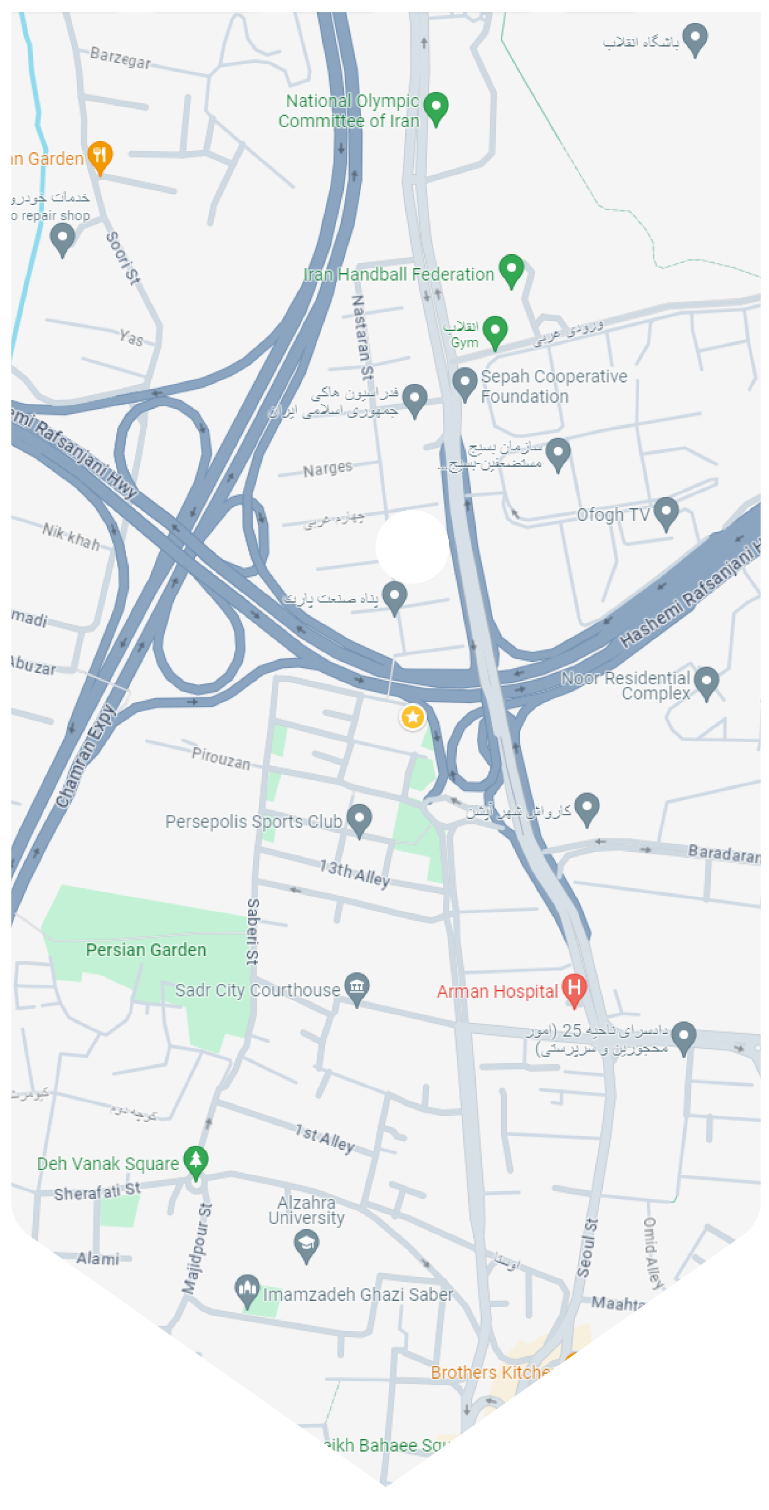
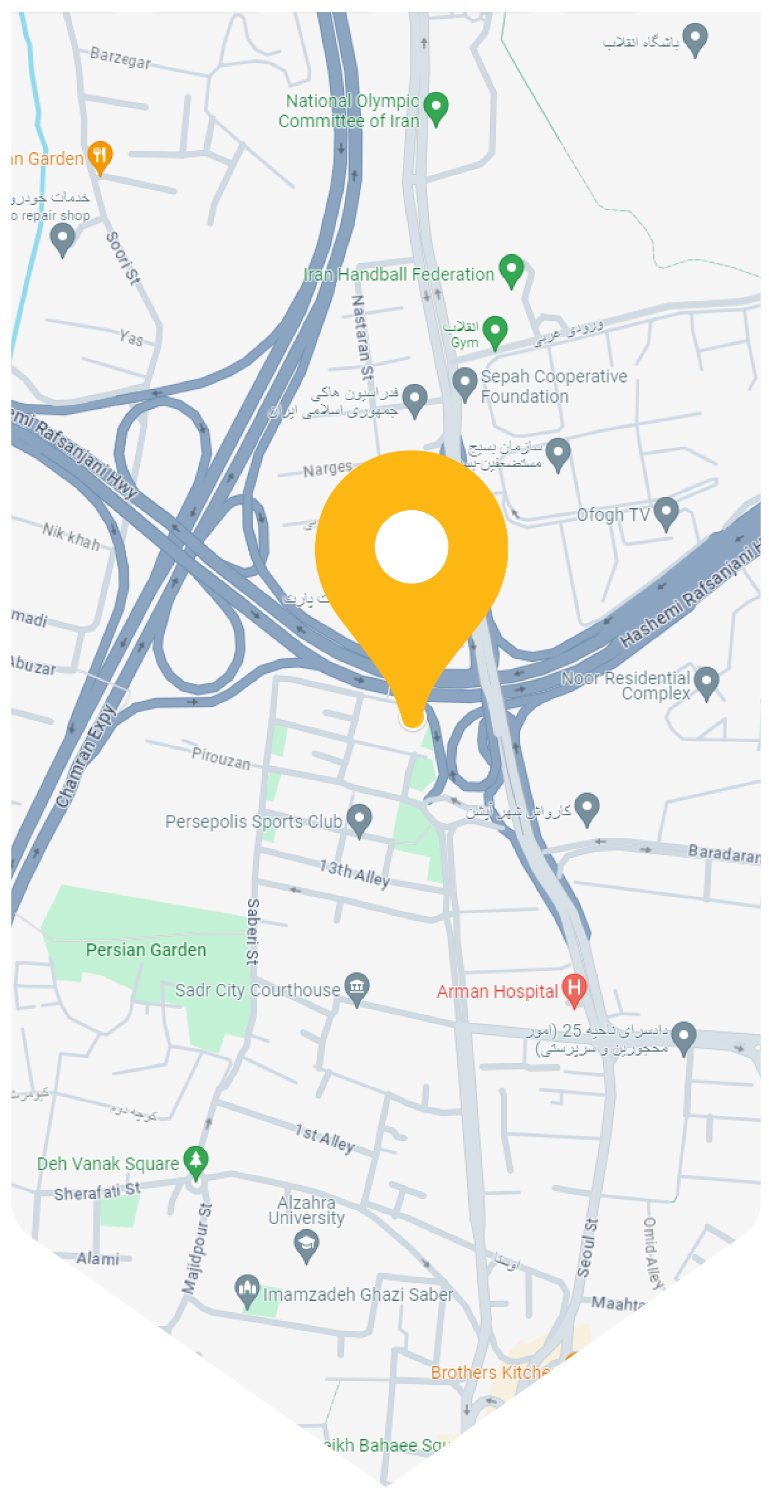
update: contact

Changed region(s): [[0.4057, 0.2801, 0.6866, 0.498]]

diff --git a/pages/contact/index.js b/pages/contact/index.js
@@ -2,12 +2,11 @@ import { useState, useContext, Fragment, useEffect } from "react";
 import { StateContext } from "@/context/stateContext";
 import classes from "./contact.module.scss";
 import Image from "next/legacy/image";
-import shahyad from "@/assets/shahyad.png";
+import map from "@/assets/map.png";
 import PhoneEnabledIcon from "@mui/icons-material/PhoneEnabled";
 import EmailIcon from "@mui/icons-material/Email";
 import ReceiptLongIcon from "@mui/icons-material/ReceiptLong";
 import LocationOnIcon from "@mui/icons-material/LocationOn";
-import NavigationIcon from "@mui/icons-material/Navigation";
 
 export default function Contact() {
   const { language, setLanguage } = useContext(StateContext);
@@ -16,15 +15,15 @@ export default function Contact() {
     "https://www.google.com/maps/place/Eshareh+Advertising+Agency/@35.7743132,51.3941519,17z/data=!4m6!3m5!1s0x3f8e0651f88334cf:0xbf2b6076f1e9fc52!8m2!3d35.7746884!4d51.3941131!16s%2Fg%2F1tg6j0hh?entry=ttu";
 
   return (
-    <div className={classes.container}>
-      <div className={classes.cover}>
+    <div className={language ? classes.container : classes.containerReverse}>
+      <div className={classes.image} onClick={() => window.open(locationLink)}>
         <Image
-          src={shahyad}
-          blurDataURL={shahyad}
+          src={map}
+          blurDataURL={map}
           placeholder="blur"
-          alt="cover"
-          layout="fill"
-          objectFit="cover"
+          alt="map"
+          layout="responsive"
+          objectFit="contain"
           as="image"
           priority
         />
@@ -35,55 +34,60 @@ export default function Contact() {
             language ? classes.information : classes.informationReverse
           }
         >
-          <h1>{language ? "اشاره" : "eshareh"}</h1>
-          <div
-            className={language ? classes.row : classes.rowReverse}
-            onClick={() => window.open(locationLink)}
-          >
-            <LocationOnIcon className="icon" />
+          <div className={language ? classes.tag : classes.tagReverse}>
             {language ? (
-              <p className={classes.click}>
-                تهران، انتهای شیخ بهایی شمالی، نبش بزرگراه نیایش، کوچه ۲۱، پلاک
-                ۲، ۱۹۹۵۷۷۵۳۵۳
-              </p>
+              <p className={classes.click}>دفتر ما را پیدا کنید</p>
             ) : (
-              <p className={classes.click}>
-                No. 2, 21st Alley, North Sheikh Bahaei St. Tehran, 1995775353,
-                Iran
-              </p>
+              <p className={classes.click}>Find our office</p>
             )}
           </div>
-          <div
-            className={language ? classes.row : classes.rowReverse}
-            onClick={() => window.open(locationLink)}
+          <h1
+            className={classes.title}
+            style={{
+              fontFamily: language ? "FarsiMedium" : "EnglishMedium",
+            }}
           >
-            <NavigationIcon className="icon" />
-            <p className={classes.click}>
-              {language ? "موقعیت روی نقشه" : "Get directions"}
-            </p>
-          </div>
-          <div
-            className={language ? classes.row : classes.rowReverse}
-            onClick={() => window.open("tel:+982188044244", "_self")}
-          >
-            <PhoneEnabledIcon className="icon" />
-            <p className={classes.click}>
-              {language ? "+۹۸ ۲۱ ۸۸۰ ۴۴ ۲۴۴" : "+98 21 880 44 244"}
-            </p>
-          </div>
-          <div className={language ? classes.row : classes.rowReverse}>
-            <ReceiptLongIcon />
-            <p>{language ? "+۹۸ ۲۱ ۸۸۰ ۶۰ ۶۶۶" : "+98 21 880 60 666"}</p>
-          </div>
-          <div className={language ? classes.row : classes.rowReverse}>
-            <EmailIcon />
-            <p
-              style={{
-                fontFamily: language ? "English" : "English",
-              }}
+            {language ? "اشاره" : "eshareh"}
+          </h1>
+          <div className={classes.details}>
+            <div
+              className={language ? classes.row : classes.rowReverse}
+              onClick={() => window.open(locationLink)}
             >
-              info@eshareh.com
-            </p>
+              {language ? (
+                <p className={classes.click}>
+                  تهران، انتهای شیخ بهایی شمالی، نبش بزرگراه نیایش، کوچه ۲۱،
+                  پلاک ۲، ۱۹۹۵۷۷۵۳۵۳
+                </p>
+              ) : (
+                <p className={classes.click}>
+                  No. 2, 21st Alley, North Sheikh Bahaei St. Tehran, 1995775353,
+                  Iran
+                </p>
+              )}
+            </div>
+            <div
+              className={language ? classes.row : classes.rowReverse}
+              onClick={() => window.open("tel:+982188044244", "_self")}
+            >
+              <p className={classes.click}>{language ? "تماس" : "Tel"}</p>
+              <p className={classes.click}>
+                {language ? "+۹۸ ۲۱ ۸۸۰ ۴۴ ۲۴۴" : "+98 21 880 44 244"}
+              </p>
+            </div>
+            <div className={language ? classes.row : classes.rowReverse}>
+              <p>{language ? "فکس" : "Fax"}</p>
+              <p>{language ? "+۹۸ ۲۱ ۸۸۰ ۶۰ ۶۶۶" : "+98 21 880 60 666"}</p>
+            </div>
+            <div className={language ? classes.row : classes.rowReverse}>
+              <p
+                style={{
+                  fontFamily: language ? "English" : "English",
+                }}
+              >
+                info@eshareh.com
+              </p>
+            </div>
           </div>
         </div>
       </div>

diff --git a/pages/contact/contact.module.scss b/pages/contact/contact.module.scss
@@ -1,60 +1,123 @@
 @use "styles/_config.scss" as config;
 @use "styles/_mixins.scss" as mixins;
 
-.container {
-  margin: auto;
+.container,
+.containerReverse {
+  display: flex;
+  flex-direction: row;
   width: config.$content-width;
-  margin-top: 150px;
+  max-width: config.$max-widthHeigh;
+  margin: auto;
 
   @include mixins.mobile {
-    width: calc(100% - 24px);
+    flex-direction: column-reverse !important;
+    width: 100%;
+    margin-top: 150px;
+  }
+}
+
+.containerReverse {
+  flex-direction: row-reverse;
+}
+
+.image {
+  width: 300px;
+  cursor: pointer;
+
+  @include mixins.mobile {
+    margin: auto;
+    margin-top: 50px;
+    width: 50%;
   }
 }
 
 .informationContainer {
   display: flex;
-  flex-direction: row-reverse;
-  position: absolute;
-  top: 50%;
-  left: 50%;
-  transform: translate(-50%, -50%);
-  width: config.$content-width;
-  max-width: config.$max-widthHeigh;
+  margin: auto;
+  width: 100%;
 
   @include mixins.mobile {
     width: calc(100% - 24px);
+  }
+
+  .title {
+    position: relative;
+    z-index: 2;
+    font-size: 220px !important;
+
+    @include mixins.mobile {
+      font-size: 45px !important;
+    }
+    @include mixins.tablet {
+      font-size: 100px !important;
+    }
   }
 }
 
 .information,
 .informationReverse {
   position: relative;
-  right: 0px;
+  width: 100%;
   text-align: right;
-  width: 40%;
 
   @include mixins.mobile {
     width: 100%;
+  }
+
+  .details {
+    position: relative;
+    bottom: 80px;
+    @include mixins.mobile {
+      bottom: 0px;
+    }
+    @include mixins.tablet {
+      bottom: 0px;
+    }
+  }
+
+  .tag,
+  .tagReverse {
+    display: flex;
+    align-items: center;
+    color: config.$grey;
+    position: relative;
+    top: 100px;
+
+    @include mixins.mobile {
+      top: 0px;
+    }
+    @include mixins.tablet {
+      top: 0px;
+    }
+  }
+
+  .tag {
+    flex-direction: row-reverse;
+    top: 50px;
+
+    @include mixins.mobile {
+      top: 0px;
+    }
+    @include mixins.tablet {
+      top: 0px;
+    }
   }
 
   .row,
   .rowReverse {
     display: flex;
     align-items: center;
-    margin: 16px 0px;
+    margin: 8px 0px;
+    color: config.$grey;
+    position: relative;
+    z-index: 3;
 
     .click {
       cursor: pointer;
     }
 
-    @include mixins.mobile {
-      padding: 8px;
-      @include mixins.transparentBackground(0.6, config.$white);
-      @include mixins.border-radius();
-    }
-
     p {
-      margin: 0px 12px;
+      margin-right: 12px;
     }
   }
 

diff --git a/pages/about/about.module.scss b/pages/about/about.module.scss
@@ -31,7 +31,6 @@
     flex-direction: column;
   }
   @include mixins.tablet {
-    width: calc(100% - 24px);
     flex-direction: column;
   }
 
